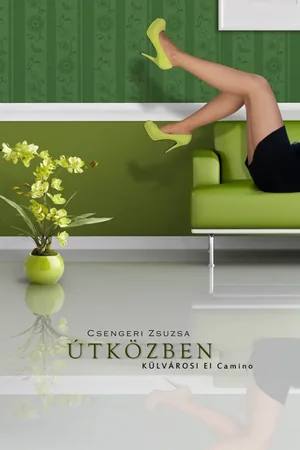
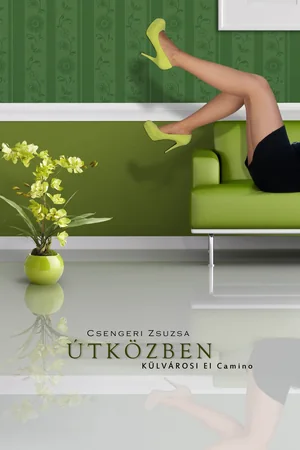
Könyvborítók cseréje nagy felbontású eredetikre
Új 300/560/840 px-es változatok (WebP + JPG), a 840 px nagy
felbontású kijelzőkhöz.

Claude-Session: https://claude.ai/code/session_01DtKML5fUXUi3mir2uPUTqG

diff --git a/public/konyvek.html b/public/konyvek.html
@@ -67,8 +67,8 @@
       <div class="container book__inner">
         <figure class="cover cover--img">
           <picture>
-            <source type="image/webp" srcset="assets/img/borito-utkozben-300.webp 300w, assets/img/borito-utkozben-560.webp 560w" sizes="(max-width: 820px) 60vw, 280px">
-            <img src="assets/img/borito-utkozben-560.jpg" srcset="assets/img/borito-utkozben-300.jpg 300w, assets/img/borito-utkozben-560.jpg 560w" sizes="(max-width: 820px) 60vw, 280px" width="560" height="840" loading="lazy" alt="Útközben – Csengeri Zsuzsa regényének borítója">
+            <source type="image/webp" srcset="assets/img/borito-utkozben-300.webp 300w, assets/img/borito-utkozben-560.webp 560w, assets/img/borito-utkozben-840.webp 840w" sizes="(max-width: 820px) 60vw, 280px">
+            <img src="assets/img/borito-utkozben-560.jpg" srcset="assets/img/borito-utkozben-300.jpg 300w, assets/img/borito-utkozben-560.jpg 560w, assets/img/borito-utkozben-840.jpg 840w" sizes="(max-width: 820px) 60vw, 280px" width="560" height="840" loading="lazy" alt="Útközben – Csengeri Zsuzsa regényének borítója">
           </picture>
         </figure>
         <div class="book__body">
@@ -92,8 +92,8 @@
       <div class="container book__inner">
         <figure class="cover cover--img">
           <picture>
-            <source type="image/webp" srcset="assets/img/borito-a-hetedik-napon-300.webp 300w, assets/img/borito-a-hetedik-napon-560.webp 560w" sizes="(max-width: 820px) 60vw, 280px">
-            <img src="assets/img/borito-a-hetedik-napon-560.jpg" srcset="assets/img/borito-a-hetedik-napon-300.jpg 300w, assets/img/borito-a-hetedik-napon-560.jpg 560w" sizes="(max-width: 820px) 60vw, 280px" width="560" height="840" loading="lazy" alt="A hetedik napon – Csengeri Zsuzsa regényének borítója">
+            <source type="image/webp" srcset="assets/img/borito-a-hetedik-napon-300.webp 300w, assets/img/borito-a-hetedik-napon-560.webp 560w, assets/img/borito-a-hetedik-napon-840.webp 840w" sizes="(max-width: 820px) 60vw, 280px">
+            <img src="assets/img/borito-a-hetedik-napon-560.jpg" srcset="assets/img/borito-a-hetedik-napon-300.jpg 300w, assets/img/borito-a-hetedik-napon-560.jpg 560w, assets/img/borito-a-hetedik-napon-840.jpg 840w" sizes="(max-width: 820px) 60vw, 280px" width="560" height="840" loading="lazy" alt="A hetedik napon – Csengeri Zsuzsa regényének borítója">
           </picture>
         </figure>
         <div class="book__body">
@@ -115,8 +115,8 @@
       <div class="container book__inner">
         <figure class="cover cover--img">
           <picture>
-            <source type="image/webp" srcset="assets/img/borito-az-elet-fonala-300.webp 300w, assets/img/borito-az-elet-fonala-560.webp 560w" sizes="(max-width: 820px) 60vw, 280px">
-            <img src="assets/img/borito-az-elet-fonala-560.jpg" srcset="assets/img/borito-az-elet-fonala-300.jpg 300w, assets/img/borito-az-elet-fonala-560.jpg 560w" sizes="(max-width: 820px) 60vw, 280px" width="560" height="840" loading="lazy" alt="Az élet fonala – Csengeri Zsuzsa regényének borítója">
+            <source type="image/webp" srcset="assets/img/borito-az-elet-fonala-300.webp 300w, assets/img/borito-az-elet-fonala-560.webp 560w, assets/img/borito-az-elet-fonala-840.webp 840w" sizes="(max-width: 820px) 60vw, 280px">
+            <img src="assets/img/borito-az-elet-fonala-560.jpg" srcset="assets/img/borito-az-elet-fonala-300.jpg 300w, assets/img/borito-az-elet-fonala-560.jpg 560w, assets/img/borito-az-elet-fonala-840.jpg 840w" sizes="(max-width: 820px) 60vw, 280px" width="560" height="840" loading="lazy" alt="Az élet fonala – Csengeri Zsuzsa regényének borítója">
           </picture>
         </figure>
         <div class="book__body">
@@ -141,8 +141,8 @@
       <div class="container book__inner">
         <figure class="cover cover--img">
           <picture>
-            <source type="image/webp" srcset="assets/img/borito-a-gyogyito-300.webp 300w, assets/img/borito-a-gyogyito-560.webp 560w" sizes="(max-width: 820px) 60vw, 280px">
-            <img src="assets/img/borito-a-gyogyito-560.jpg" srcset="assets/img/borito-a-gyogyito-300.jpg 300w, assets/img/borito-a-gyogyito-560.jpg 560w" sizes="(max-width: 820px) 60vw, 280px" width="560" height="840" loading="lazy" alt="A gyógyító – Csengeri Zsuzsa regényének borítója">
+            <source type="image/webp" srcset="assets/img/borito-a-gyogyito-300.webp 300w, assets/img/borito-a-gyogyito-560.webp 560w, assets/img/borito-a-gyogyito-840.webp 840w" sizes="(max-width: 820px) 60vw, 280px">
+            <img src="assets/img/borito-a-gyogyito-560.jpg" srcset="assets/img/borito-a-gyogyito-300.jpg 300w, assets/img/borito-a-gyogyito-560.jpg 560w, assets/img/borito-a-gyogyito-840.jpg 840w" sizes="(max-width: 820px) 60vw, 280px" width="560" height="840" loading="lazy" alt="A gyógyító – Csengeri Zsuzsa regényének borítója">
           </picture>
         </figure>
         <div class="book__body">
